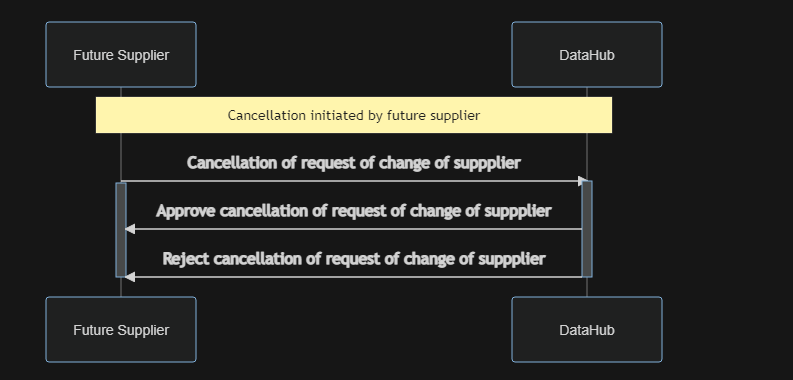
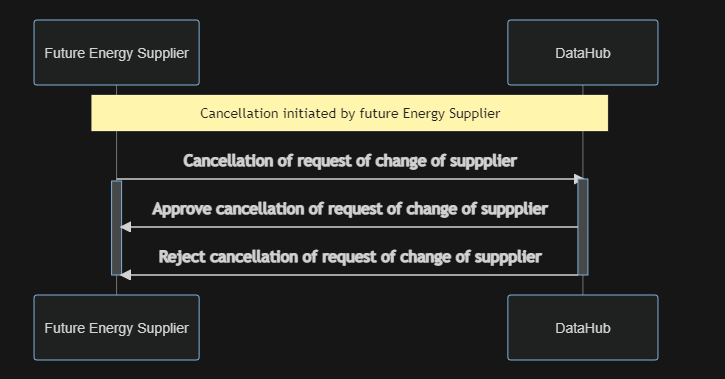
Updates to docs and diagrams

diff --git a/docs/business-processes/change-of-energy-supplier.md b/docs/business-processes/change-of-energy-supplier.md
@@ -1,0 +1,39 @@
+# Change of supplier (CoS)
+
+## Process overview
+
+A energy supplier can, if he has consent from a consumer, request a change of energy supplier on a metering point (MP). This requires knowing either the social security number or the VAT number of the consumer currently on the metering point.
+
+Upon receival, relevant [validation rules](..\validations\change-of-energy-supplier-validations.md) are checked. If successful, the energy supplier is registered as the future energy supplier on the MP.
+
+This is done according to configurable parameters delimiting legal time frames for the process according to local laws.
+
+![design](..\images\CoS_Sequence_Diagram.PNG)
+
+Before the change of energy supplier start date it is possible for the future energy supplier to send a cancellation cancelling the request.
+When a request is cancelled the request is marked as cancelled and the requesting energy supplier is removed as a future energy supplier.
+
+![design](..\images\Cancellation_Of_CoS_Sequence_Diagram.PNG)
+
+If an end of supply process has been registered, the change of energy supplier process changes slightly. This is described in the [end of supply documentation](.\end-of-supply.md).
+
+## Implementation details
+
+[Link to architecture](https://github.com/Energinet-DataHub/geh-market-roles#architecture)
+
+The process manager that facilitates the entire flow has the following states:
+
+| State                                       | Description                                                                                                                                                                                                                                                                                                                                                      |
+| ------------------------------------------- | ---------------------------------------------------------------------------------------------------------------------------------------------------------------------------------------------------------------------------------------------------------------------------------------------------------------------------------------------------------------- |
+| NotStarted                                  | Flow not started                                                                                                                                                                                                                                                                                                                                                 |
+| AwaitingConfirmationMessageDispatch         | Upon request receival the flow is initiated and we change our state to this first state. If it goes through our [list of validations](..\validations\change-of-energy-supplier-validations.md), this will trigger the next state and mark the energy supplier as a future energy supplier. If rejected the flow stops here and a validation report is generated. |
+| AwaitingMeteringPointDetailsDispatch        | Awaiting Metering Point Master Data message to be generated and dispatched.                                                                                                                                                                                                                                                                                      |
+| AwaitingConsumerDetailsDispatch             | Awaiting Consumer Master Data message to be generated and dispatched.                                                                                                                                                                                                                                                                                            |
+| AwaitingCurrentSupplierNotificationDispatch | Awaiting message to be generated and dispatched to notify current energy supplier of the energy supplier change.                                                                                                                                                                                                                                                 |
+| AwaitingSupplierChange                      | Energy supplier change is pending.                                                                                                                                                                                                                                                                                                                               |
+| Completed                                   | Future energy supplier is marked as current energy supplier and the old energy supplier is stamped with an end date. Change of energy supplier process is completed and a energy supplier changed event is raised.                                                                                                                                               |
+
+<br/>
+<br/>
+
+Whenever a message is generated it is stored in the [Outbox](http://www.kamilgrzybek.com/design/the-outbox-pattern/) table. A timer job then runs through the [Outbox](http://www.kamilgrzybek.com/design/the-outbox-pattern/) at a given interval and dispatches the message to a queue and marks the message as dispatched. The message is then picked up by the [Post Office](https://github.com/Energinet-DataHub/geh-post-office).

diff --git a/README.md b/README.md
@@ -8,18 +8,18 @@ and changes in consumers/producers (who is a consumer), on metering points.
 
 These are the processes maintained by this domain.
 
-| Process                                                                      |
-| ---------------------------------------------------------------------------- |
-| [Change of Energy Supplier](.\docs\business-processes\change-of-supplier.md) |
-| [End of Supply](.\docs\business-processes\end-of-supply.md)                  |
-| Forced Energy Supplier change                                                |
-| Incorrect Energy Supplier change                                             |
-| Consumer move in                                                             |
-| Consumer move out                                                            |
-| Incorrect move                                                               |
-| Forward consumer master data by Energy Supplier                              |
-| Forward contact address by grid operator                                     |
-| ....                                                                         |
+| Process                                                                             |
+| ----------------------------------------------------------------------------------- |
+| [Change of Energy Supplier](.\docs\business-processes\change-of-energy-supplier.md) |
+| [End of Supply](.\docs\business-processes\end-of-supply.md)                         |
+| Forced Energy Supplier change                                                       |
+| Incorrect Energy Supplier change                                                    |
+| Consumer move in                                                                    |
+| Consumer move out                                                                   |
+| Incorrect move                                                                      |
+| Forward consumer master data by Energy Supplier                                     |
+| Forward contact address by grid operator                                            |
+| ....                                                                                |
 
 ## Architecture
 
@@ -28,6 +28,21 @@ These are the processes maintained by this domain.
 ## Context Streams
 
 TBD
+
+## Market Participants
+
+The market roles domain introduces the following roles into the Green Energy Hub ecosystem:
+
+- Balance Responsible Party
+- Consumer
+- Energy supplier
+- Grid Access Provider
+- Imbalance settlement Responsible
+- Metered data aggregator
+- Metered data responsible
+- System Operator
+
+In the long term all these [roles](https://github.com/Energinet-DataHub/green-energy-hub/docs/dictionary-and-concepts/dictionary-market-participants.md) will be part of the Green Energy Hub
 
 ## Domain Roadmap
 
